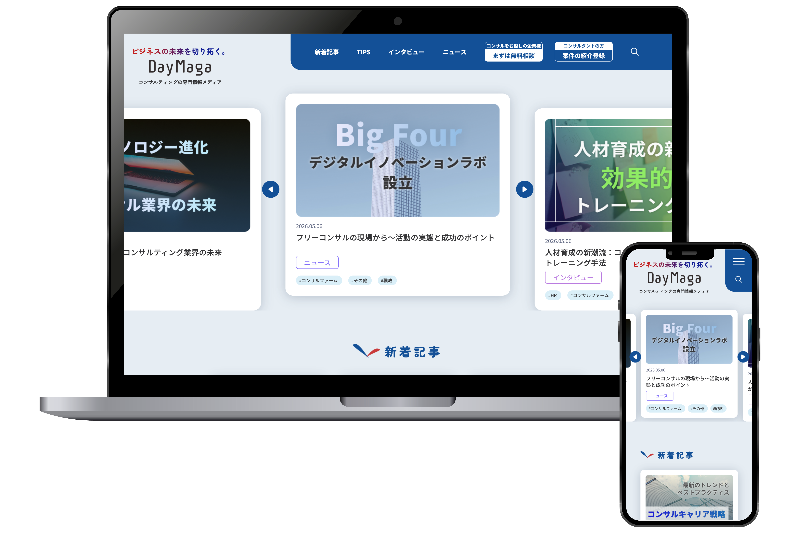
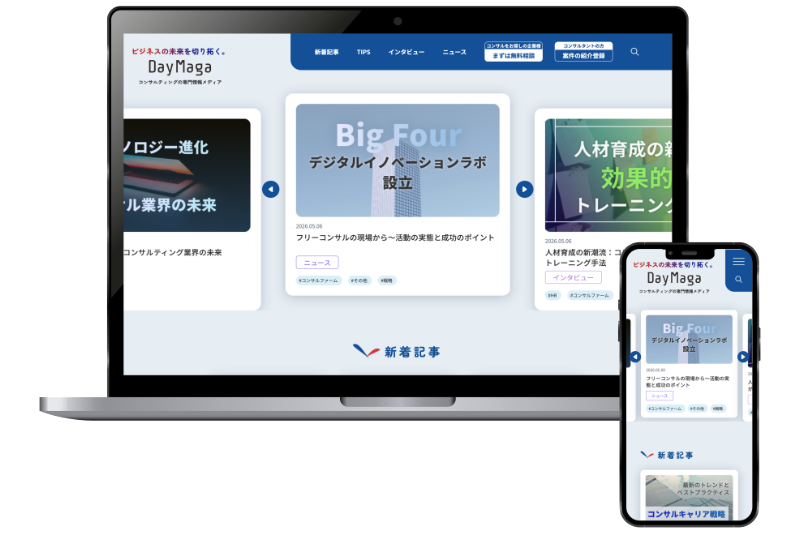
Worksカードに画像浮き上がりのhover演出を追加
- .p-works__card hover時、.p-works__thumb img を translateY(-8px) + drop-shadow で浮き上がらせる
- .p-works__thumb の overflow を visible に変更（はみ出す影をクリップしないため）
- img に transition を追加（0.3s ease）
- PC限定（タッチ端末で固着しないため mq(pc) 内に記述）
- 3カード目のカテゴリを WordPress → LP に修正
- daymaga モックアップ画像を差し替え

diff --git a/static/css/style.css b/static/css/style.css
@@ -921,6 +921,12 @@ img {
   margin: 0 auto;
   box-shadow: 0 0 30px 0 rgba(0, 0, 0, 0.03), 0 5px 30px 0 rgba(20, 43, 78, 0.2);
 }
+@media (min-width: 1024px) {
+  .p-works__card:hover .p-works__thumb img {
+    transform: translateY(-8px);
+    filter: drop-shadow(0 10px 15px rgba(0, 0, 0, 0.2));
+  }
+}
 
 .p-works__link {
   display: flex;
@@ -934,12 +940,17 @@ img {
   background-image: url("../img/fv-bg.svg");
   background-repeat: repeat;
   background-position: center;
-  overflow: hidden;
+  overflow: visible;
 }
 .p-works__thumb img {
   display: block;
   width: 100%;
   height: auto;
+}
+@media (min-width: 1024px) {
+  .p-works__thumb img {
+    transition: transform 0.3s ease, filter 0.3s ease;
+  }
 }
 
 .p-works__category {

diff --git a/static/scss/object/project/_works.scss b/static/scss/object/project/_works.scss
@@ -46,6 +46,15 @@
   box-shadow:
     0 0 30px 0 rgba(0, 0, 0, 0.03),
     0 5px 30px 0 rgba(20, 43, 78, 0.2);
+
+  @include mq(pc) {
+    &:hover {
+      .p-works__thumb img {
+        transform: translateY(-8px);
+        filter: drop-shadow(0 10px 15px rgba(0, 0, 0, 0.2));
+      }
+    }
+  }
 }
 
 .p-works__link {
@@ -60,12 +69,18 @@
   background-image: url("../img/fv-bg.svg");
   background-repeat: repeat;
   background-position: center;
-  overflow: hidden;
+  overflow: visible;
 
   img {
     display: block;
     width: 100%;
     height: auto;
+
+    @include mq(pc) {
+      transition:
+        transform 0.3s ease,
+        filter 0.3s ease;
+    }
   }
 }
 

diff --git a/static/index.html b/static/index.html
@@ -232,7 +232,7 @@
                         height="533"
                       />
                     </div>
-                    <p class="p-works__category">WordPress</p>
+                    <p class="p-works__category">LP</p>
                     <h3 class="p-works__title">
                       pilatesroom はろこあ様 | ランディングページ
                     </h3>
